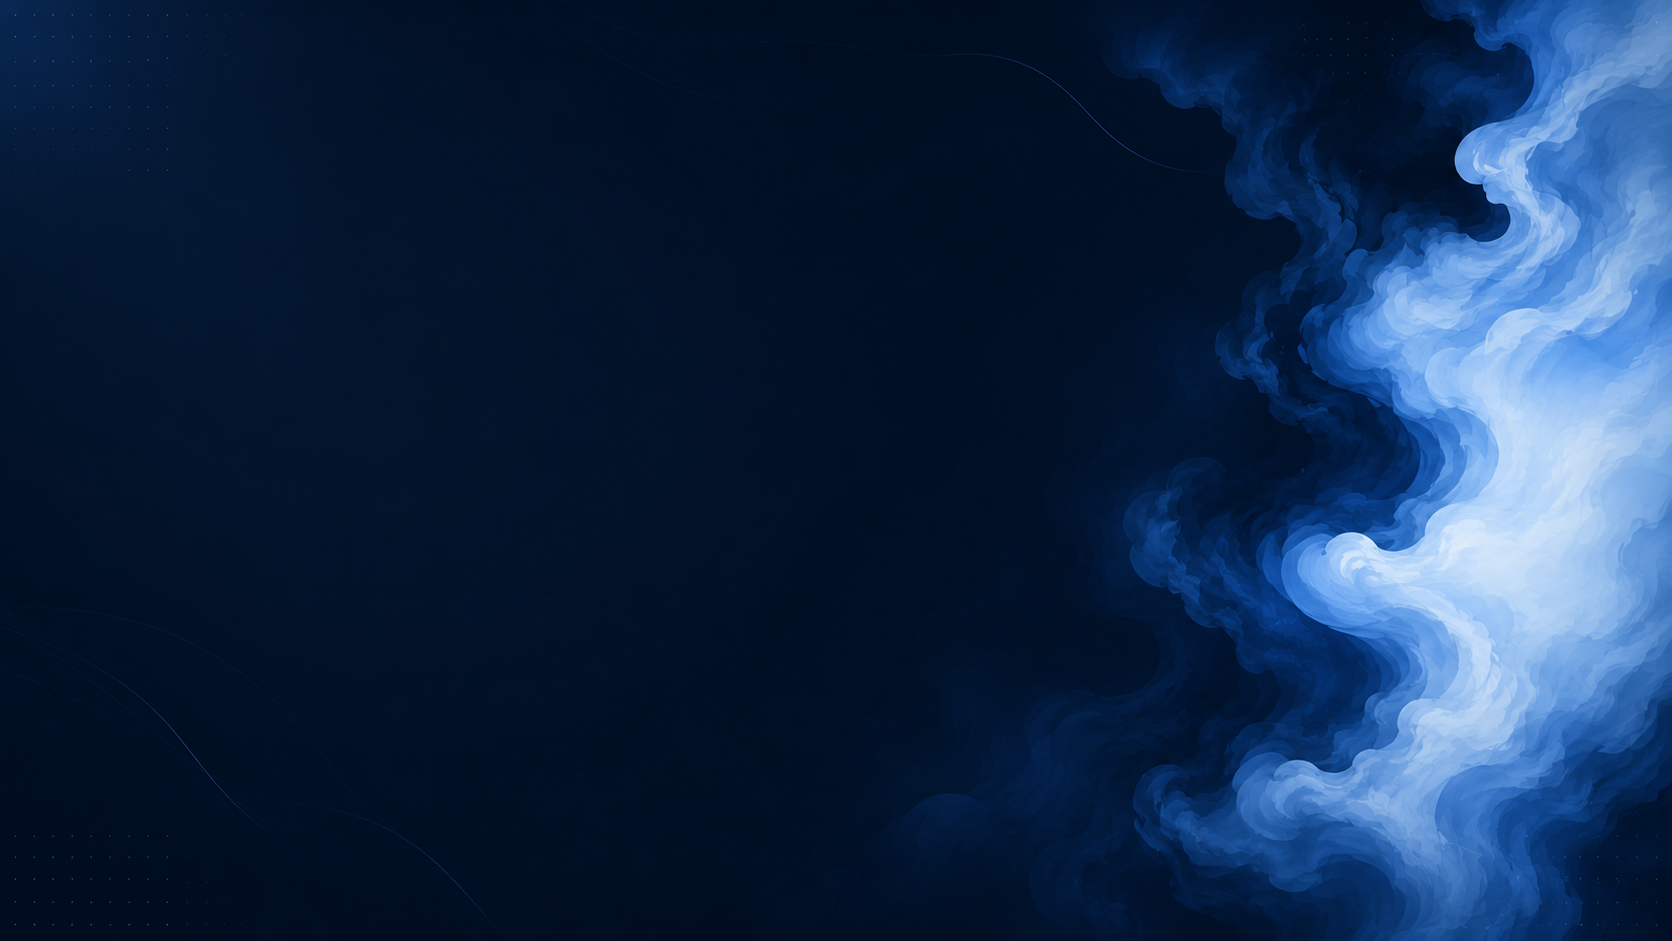
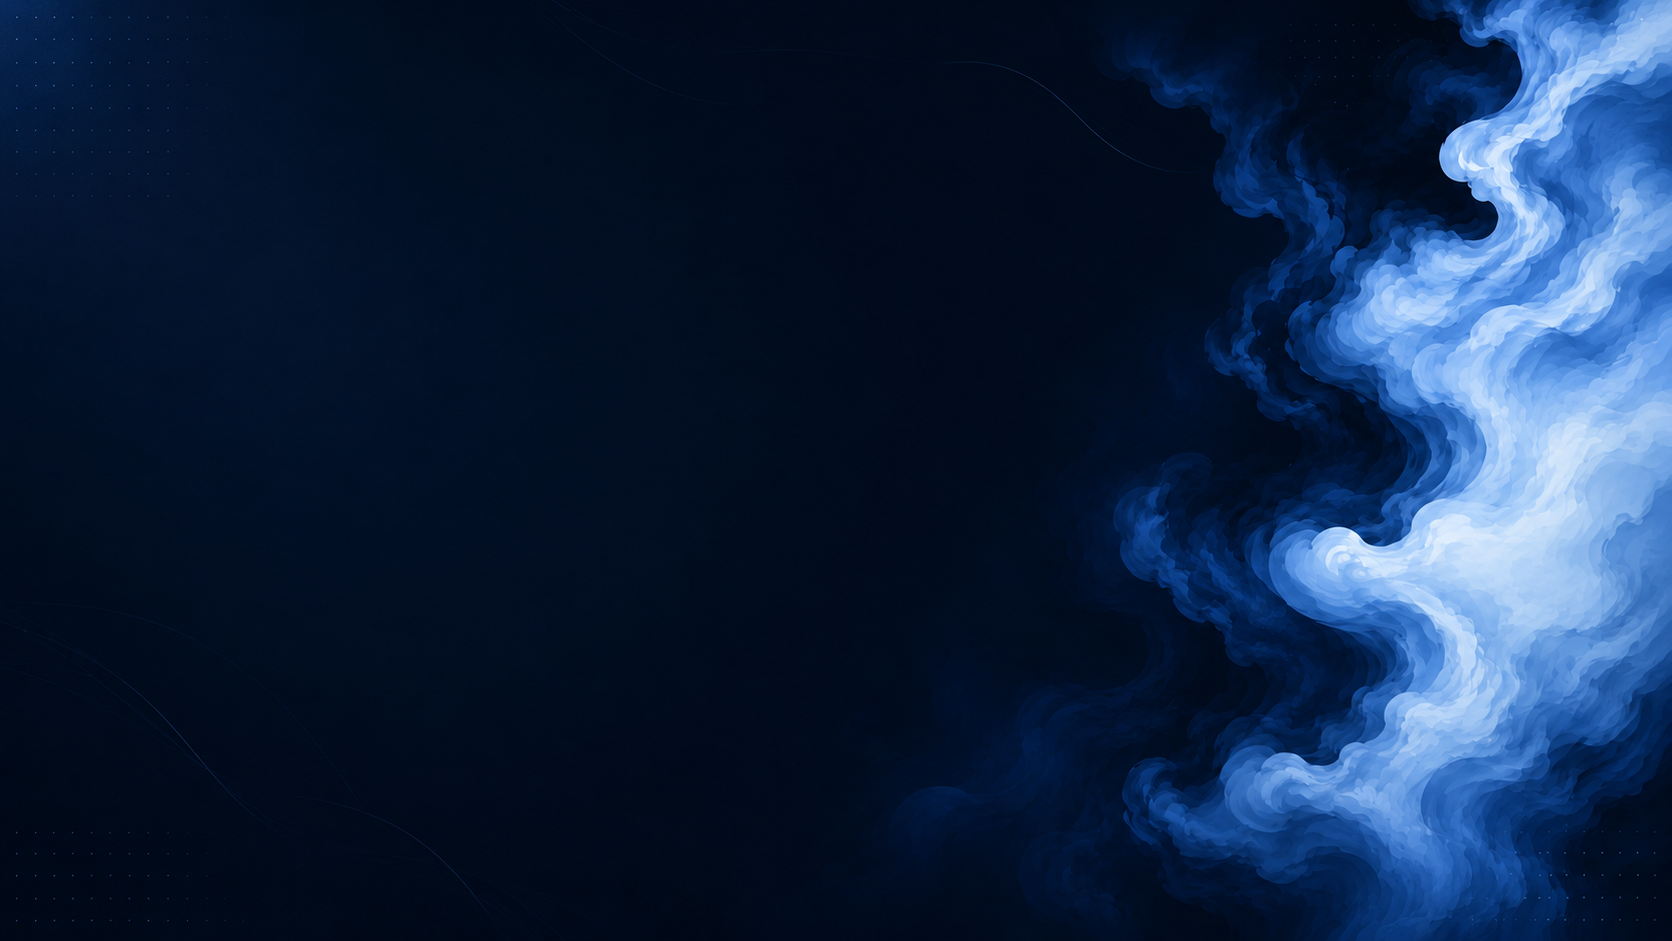
Ajuste header y posicion toggle tema

Changed region(s): [[0.6531, 0.0, 1.0, 1.0], [0.7775, 0.0925, 0.8086, 0.1233]]

diff --git a/app/page.tsx b/app/page.tsx
@@ -17,7 +17,7 @@ export default function Home() {
   return (
     <main className="relative min-h-screen overflow-hidden bg-[var(--page-bg)] text-[var(--text-main)] transition">
 
- <header className="absolute left-0 top-0 z-50 w-full px-6 py-6">
+ <header className="absolute left-0 top-0 z-50 w-full px-2 py-6">
   <div className="mx-auto flex max-w-[1180px] items-center justify-between">
     <Link href="/" className="sr-only">
       Kint 3D
@@ -25,18 +25,11 @@ export default function Home() {
 
     <div className="opacity-0">KINT 3D</div>
 
-    <div className="flex items-center gap-6">
-      <ThemeToggle />
+    <div className="flex items-center">
+  <ThemeToggle />
+</div>
 
-      <button
-        type="button"
-        className="h-12 w-12 opacity-0"
-        aria-label="Menú"
-      >
-        ≡
-      </button>
-    </div>
-  </div>
+</div>
 </header>
 
 <section className="relative min-h-screen overflow-hidden px-8 pt-12">